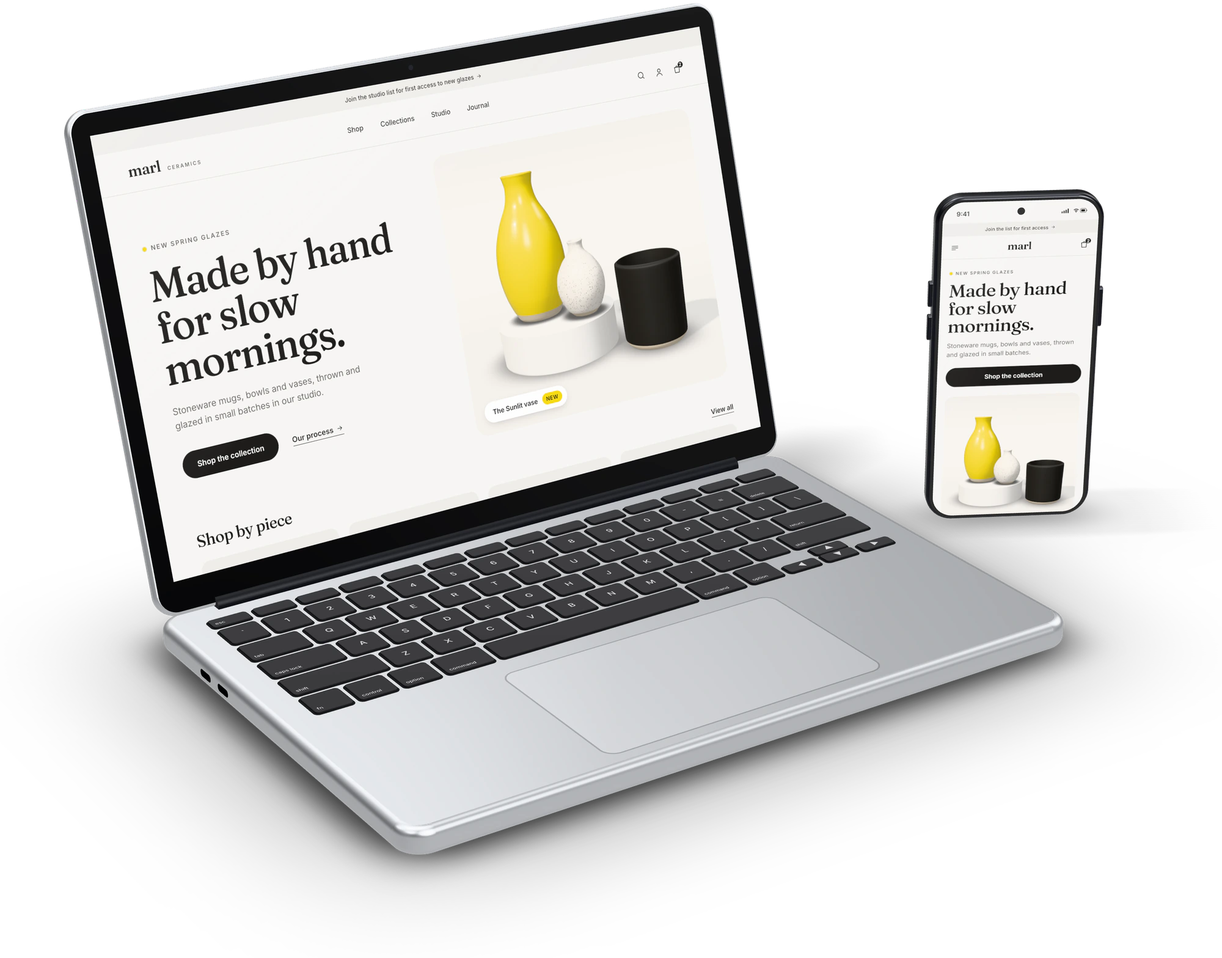
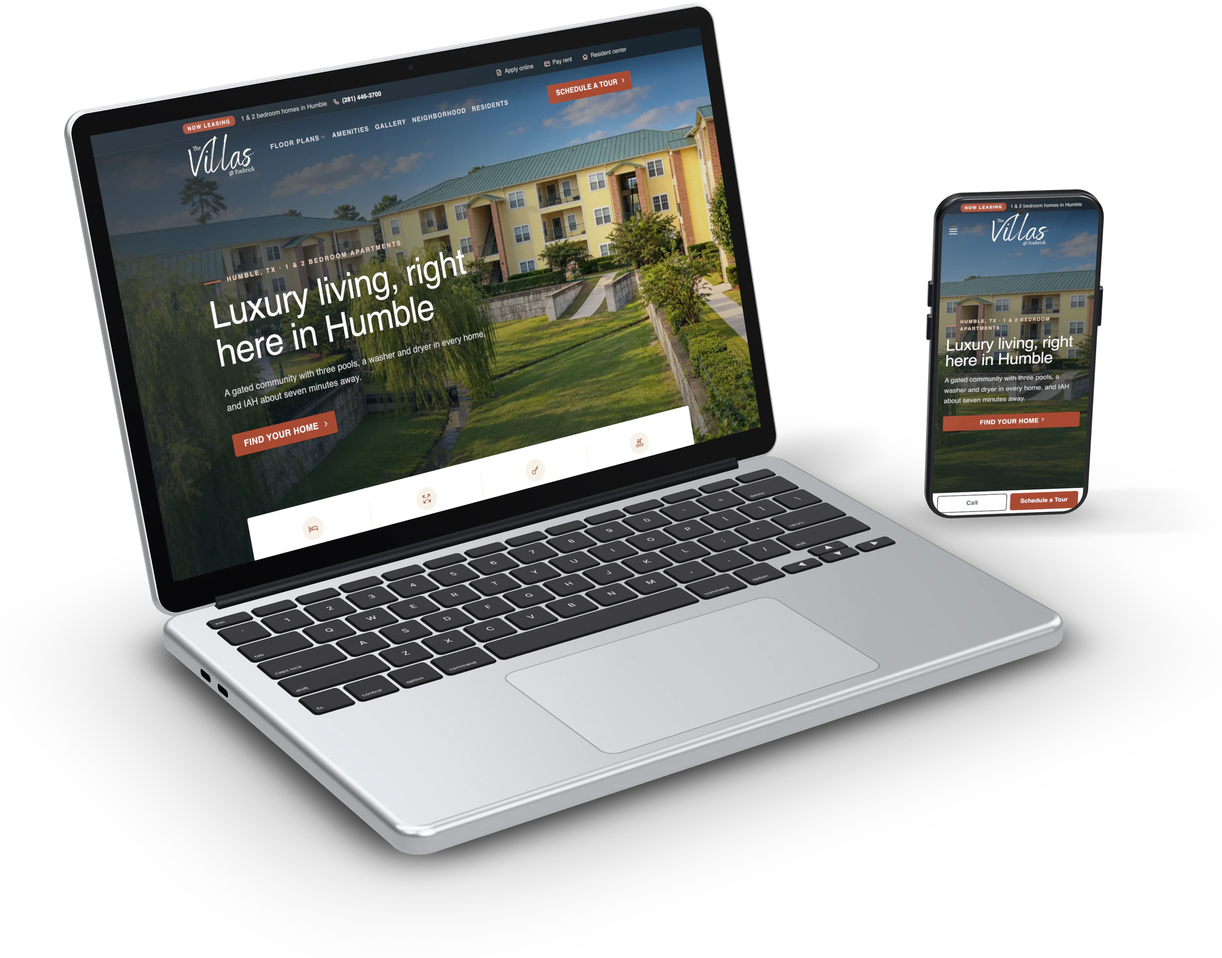
hero section

Changed region(s): [[0.062, 0.0312, 0.62, 0.625], [0.744, 0.1875, 0.899, 0.5312]]

diff --git a/src/data/site.ts b/src/data/site.ts
@@ -242,7 +242,8 @@ export const workFilters: readonly { readonly service: ServiceSlug; readonly lab
 /**
  * The home page's featured projects, in display order, numbered 01-03 there. Supplied by the owner
  * on 2026-11-18 and described from what each site shows (checked that day). The Villas @ Foxbrick
- * demo asked for a password, so its entry rests on the owner's own screenshot and project files.
+ * homepage was open without a password later that day; the card still calls it a demo and does not
+ * repeat the phone number shown there.
  */
 export const featuredProjects: readonly FeaturedProject[] = [
   {

diff --git a/design/hero-mockup/sample-site/sample-site.css b/design/hero-mockup/sample-site/sample-site.css
@@ -1,6 +1,7 @@
 /*
- * Sample website shown on the hero mockup's screens: "Marl", a fictional ceramics studio.
- * Concept artwork only, not a client project. Desktop and mobile pages share these styles.
+ * Earlier sample website for the hero mockup: "Marl", a fictional ceramics studio.
+ * Not shown on the hero anymore (see the folder README). Concept artwork only, not a client.
+ * Desktop and mobile pages share these styles.
  * Fonts are open-licensed (SIL OFL) and pinned: Fraunces for display, Inter for interface text.
  */
 @font-face {

diff --git a/design/hero-mockup/scenes/devices.html b/design/hero-mockup/scenes/devices.html
@@ -5,7 +5,7 @@
     <title>Hero mockup: laptop and phone</title>
     <!--
       The home hero's device composition: a silver laptop in three-quarter view and an upright
-      phone to its right, showing the sample site's desktop and mobile screenshots, on a
+      phone to its right, showing the stored desktop and mobile screenshots, on a
       transparent background with soft grounding shadows. Rendered by ../render.mjs.
       The devices are generic: no maker's logo, notch, or trade dress.
     -->

diff --git a/docs/architecture.md b/docs/architecture.md
@@ -20,7 +20,7 @@ The Auralink Studio website is a statically generated Astro site. Every page is 
 | Logo                 | `src/assets/aura.svg` (the owner's artwork, 2026-11-17), inlined by the navbar and its menu panel                  | Cropped to the artwork, clipping frame removed, paths optimised once with SVGO (16.4 KB to 5.6 KB; inlined twice per page). The wordmark fills with `currentColor`, so it takes the bar's text colour and looks black when opened alone; the mark's yellow is not a theme token. 48px tall so the "Studio" line stays readable. Treat a new export the same way. The earlier green-mark `aura-logo.svg` stays, unused, at the owner's request.                                                                                                                                                                                                                                                                                                                                                                                                                                                                                                                                                                                                                                               |
 | Primary button       | `src/components/ui/Button.astro`, with the `btn-lit` and `aura-lap` utilities in `src/styles/global.css`           | Lit from above, after the owner's reference (https://www.youtube.com/shorts/XldO61IcsX4): a gradient and four shadows (top light, bottom shade, contact, own-colour glow), flipped on press. The gradient shades downward, keeping the label at 4.5:1. daisyUI's `aura` makes one lap on appearance (skipped by `aura="hover"`: `aura-hover`), then fades in on hover or keyboard focus and fades out afterwards, pausing where it stopped so the next visit continues, and stays off under reduced motion (WCAG 2.2.2).                                                                                                                                                                                                                                                                                                                                                                                                                                                                                                                                                                     |
 | Home hero            | `src/components/sections/Hero.astro`; image `src/assets/hero/laptop-phone.webp`                                    | Owner's brief (2026-11-17): copy left (about 45%), devices right (55%), stacked below `lg`. At 10% of its column, the headline keeps "brings them back." on one line in Mukta. The only motion on load is the pencil underline (`PencilUnderline.astro`, `animate-pencil-draw`): drawn once after 250 ms, already finished under reduced motion. Buttons change colour at once (`transition-none`); the CTA's aura waits for hover and resumes where it stopped.                                                                                                                                                                                                                                                                                                                                                                                                                                                                                                                                                                                                                             |
-| Hero image           | Rendered from `design/hero-mockup/` (three.js in headless Chromium), served as AVIF with WebP fallback             | No approved client work exists yet, so the screens show a fictional sample shop, labelled as concept work in that folder's README. Original 3D devices, no stock or third-party art. Six widths, loaded eagerly with `fetchpriority="high"` and explicit dimensions. `render.mjs` crops to the visible pixels and refuses a frame that would cut a shadow.                                                                                                                                                                                                                                                                                                                                                                                                                                                                                                                                                                                                                                                                                                                                   |
+| Hero image           | Rendered from `design/hero-mockup/` (three.js in headless Chromium), served as AVIF with WebP fallback             | The screens show The Villas @ Foxbrick homepage, captured from the owner's WordPress demo on 2026-11-18 (`design/hero-mockup/screens/`). Same demo as the selected-work card, not confirmed client work. The devices themselves are original 3D, with no maker's logo. Six widths, loaded eagerly with `fetchpriority="high"` and explicit dimensions. `render.mjs` crops to the visible pixels and refuses a frame that would cut a shadow.                                                                                                                                                                                                                                                                                                                                                                                                                                                                                                                                                                                                                                                 |
 | Home services strip  | `src/components/sections/ServiceStrip.astro` between the hero and the introduction; `src/lib/service-strip.ts`     | After the WPRiders logo row under that site's hero: an open white band with no rules and one row with wide even gaps that moves right to left and fades out at both edges through a CSS mask. In place of logos, the `serviceCards` titles are set as a line of type in Mukta, the first word bold (700) and the rest light (300), with Lucide's `sparkle` star, filled in the primary colour, between names. The owner chose this of three treatments on 2026-11-18 (the others: titles beside icon tiles under a "What we do" label, and muted titles beside plain icons); the first version was plain bold titles between hairlines. High Scale Media supplies only the idea of a repeating services line. No client logos and no "trusted by" line. CSS transform at 30px a second (`SERVICE_STRIP_SPEED_PX_PER_SECOND`). It pauses while the pointer is over the band and has no pause button (owner, 2026-11-18), so the keyboard cannot pause it. Reduced motion and no JavaScript show every title in a static wrap with no fade. The repeated half and the stars are `aria-hidden`. |
 | Home introduction    | `src/components/sections/AboutIntro.astro`, below the services strip, the target of the hero's About us (`#about`) | After the Hub2B reference's "Space for Freelancers and Creative People" section: from `lg` the photo sits left on a `primary` frame offset down and right, with the copy beside it; below `lg` the copy comes first. It ends with a large "Learn more" button (Hub2B's "Read more"), a placeholder until `/about/` ships. No JavaScript; only the button's aura moves, under the pointer. The video is deferred (see "Open decisions").                                                                                                                                                                                                                                                                                                                                                                                                                                                                                                                                                                                                                                                      |
 | Introduction photo   | Pexels photo by Mikhail Nilov (Pexels License), `src/assets/about/`, credited in `src/assets/CREDITS.md`           | A real photograph of a business owner at work, the human counterpart to the hero's devices. It illustrates the audience only: never captioned, named, or presented as a client or team member. Full 3:2 frame at every width, so no crop can lose the subject. AVIF with WebP fallback at six widths, lazy-loaded with explicit dimensions. Every third-party asset gets an entry in the credits file.                                                                                                                                                                                                                                                                                                                                                                                                                                                                                                                                                                                                                                                                                       |

diff --git a/docs/content-strategy.md b/docs/content-strategy.md
@@ -24,7 +24,7 @@ Not yet verified (do not publish as fact): location and service area, team membe
 
 Everything beyond the list above is proposed content. Proposed content is written in draft (`draft: true` in collections, or clearly marked in page copy) and becomes publishable only after the owner confirms it. Process descriptions and educational explanations may be written from professional knowledge; claims about Auralink's own results, clients, or credentials may not.
 
-The device image in the home hero shows "Marl", a fictional ceramics shop designed as concept work (source and notes in `design/hero-mockup/`). It is not a client and must not be described as one; replace it with approved client work when that exists.
+The device image in the home hero shows the homepage of The Villas @ Foxbrick, the owner's WordPress demo, captured on 2026-11-18 (source and notes in `design/hero-mockup/`). It is the same demo as the selected-work card, not confirmed client work, and must not be described as a client, a result, or the property's own live site.
 
 The home page introduction (`src/components/sections/AboutIntro.astro`, where the hero's About us button lands) replaced the earlier "About Auralink Studio" paragraph on 2026-11-17. Its heading and body copy are the owner's (the body as the owner rewrote it that day); the eyebrow, "About Auralink Studio", is a proposal the owner has not confirmed yet. The copy makes no claim beyond the verified facts. It ends with a "Learn more" button (the owner's request, 2026-11-18), defined as `aboutCta` in `src/data/site.ts`, for the planned About page (`/about/`). Until that page ships, the button is a placeholder with no link, like "View all services" and the hero's "Book a free call". Visually hidden words, "about Auralink Studio", complete its name for screen readers and search engines, since "Learn more" alone does not say where it leads. Its photo is a licensed stock photo of a business owner at work, credited in `src/assets/CREDITS.md`. It illustrates the audience, so it must never be captioned, named, or quoted as a client or team member. The owner will supply a YouTube video for this section later; the player is separate work and nothing video-related is published until then.
 
@@ -87,7 +87,7 @@ The home page's selected work section (`src/components/sections/SelectedWork.ast
 Each description says only what the project's own site shows, or what the owner's documentation of it supports, as checked on 2026-11-18. Each card states its status in its label, so a demo or a personal project never passes for client work, and claims no client relationship, result, testimonial, integration, or booking system.
 
 1. Johnny's Exclusive Barbershop, "Custom static website", https://exclusivecutzz.netlify.app/. Inspected live. The site displays that name (its logo badge reads "Exclusive Cutz") for a barbershop in Humble, Texas. It shows services, a price list whose tabs filter it by service (tried), opening hours, the address, gallery and contact pages, a newsletter sign-up, and appointment buttons that open the shop's page on a third-party booking service. It is hand-written HTML, CSS, and JavaScript on Netlify, with no CMS. The owner's own portfolio lists it as a website from 2024. Not confirmed: whether it was paid client work, and whether the shop agreed to be featured. The card repeats none of the shop's contact details.
-2. The Villas @ Foxbrick, "WordPress demo", https://villas-foxbrick-demo.instawp.site/. The live demo could not be inspected: every request got HTTP basic authentication (401, served by InstaWP). Its entry rests on the owner's own documentation instead. That is the project card and desktop screenshot in the owner's portfolio (a WordPress website, 2026), plus the owner's source for its gallery page, built with the Flatsome theme's page builder. The screenshot shows "Now leasing" with one- and two-bedroom homes in Humble, pages for floor plans, amenities, gallery, neighborhood, and residents, and a "Schedule a tour" button. Public rental listings confirm The Villas at Foxbrick is an apartment community on Foxbrick Lane in Humble, Texas. Not confirmed: the demo's current content, and whether it was made for the property or as a concept. The card calls it a demo and describes the tour button only as a button.
+2. The Villas @ Foxbrick, "WordPress demo", https://villas-foxbrick-demo.instawp.site/. On 2026-11-18 the homepage loaded without a password (earlier the same day every request got HTTP basic authentication, 401, served by InstaWP). The homepage shows "Now leasing", one- and two-bedroom homes in Humble, a phone number, links for floor plans, amenities, gallery, neighborhood, and residents, "Schedule a tour", and the heading "Luxury living, right here in Humble". Those captures are the pages on the home hero's laptop and phone. The card still rests on the owner's portfolio (a WordPress website, 2026) and the owner's source for its gallery page, built with the Flatsome theme's page builder. Public rental listings confirm The Villas at Foxbrick is an apartment community on Foxbrick Lane in Humble, Texas. Not confirmed: whether the demo was made for the property or as a concept. The card calls it a demo and describes the tour button only as a button. The hero's alt text names the website shown and does not call it client work. The card repeats none of the phone number.
 3. one0one, "Shopify recreation", https://henrrywebsolutions.myshopify.com/. The storefront asks for a password (store name "Henrrywebsolutions"). The owner's portfolio documents it as a 2024 recreation of the storefront of one0one, an activewear brand, as it looked before the brand's latest redesign, and gives the password. With that password the storefront was checked read-only. It shows one0one's branding on Shopify's Dawn theme, with dresses, tops, belts, accessories, men's, and sale collections. Collection pages have availability and price filters and sorting, product pages offer sizes and sale prices, and there are country, currency, and English and Spanish selectors. The card calls it a personal project and says it is not affiliated with one0one. At the owner's request (2026-11-18), it also gives the store's password under its button ("Demo password: password") so visitors can open the store; that password opened the storefront the same day. Open question for the owner: featuring a recreation of a real brand's store, with its name, logo, and photography, on a commercial agency site.
 
 Each cover photo is a licensed stock photo of the project's industry (`src/assets/CREDITS.md`). It is never the business, its premises, or its products, and its alt text describes the photo, not the project.

diff --git a/design/hero-mockup/README.md b/design/hero-mockup/README.md
@@ -2,19 +2,19 @@
 
 Editable source for `src/assets/hero/laptop-phone.webp`, the device image in the home page hero (`src/components/sections/Hero.astro`): a silver laptop in three-quarter view and an upright phone beside it, on a transparent background with soft contact and cast shadows. The devices are generic, with no maker's logo or trade dress.
 
-The screens show **Marl**, a fictional ceramics studio designed for this image. It is concept work, not a client project: never present it as one. When approved client work exists, swap its screenshots in (see below) and update the image's alt text in the hero.
+The screens show the homepage of **The Villas @ Foxbrick**, the owner's WordPress demo at https://villas-foxbrick-demo.instawp.site/, captured on 2026-11-18. It is the same demo as the selected-work card: not confirmed client work, and the hero's alt text names the website shown. Do not describe it as a client, a result, or the property's own live site.
 
 ## Files
 
-| File                          | Contents                                                                                       |
-| ----------------------------- | ---------------------------------------------------------------------------------------------- |
-| `sample-site/desktop.html`    | The sample website at laptop size (1440x900)                                                   |
-| `sample-site/mobile.html`     | The same website at phone size (390x844)                                                       |
-| `sample-site/sample-site.css` | Styles shared by both pages; Fraunces and Inter, open-licensed, pinned on cdn.jsdelivr.net     |
-| `scenes/products.html`        | The sample shop's product photo: three stoneware pieces on a plinth, modelled in three.js      |
-| `scenes/devices.html`         | The laptop and phone with the screenshots as screens; `LAYOUT` at the top sets the composition |
-| `scenes/kit.js`               | Shared three.js helpers: renderer, rounded shapes, screen textures, contact shadows            |
-| `render.mjs`                  | Runs the steps below in headless Chromium and writes the asset                                 |
+| File                   | Contents                                                                                                     |
+| ---------------------- | ------------------------------------------------------------------------------------------------------------ |
+| `screens/desktop.png`  | Homepage at laptop size, 2880×1800 (1440×900 at 2×)                                                          |
+| `screens/mobile.png`   | The same homepage at phone size, 1170×2532 (390×844 at 3×)                                                   |
+| `scenes/devices.html`  | The laptop and phone with those screenshots as screens; `LAYOUT` at the top sets the composition             |
+| `scenes/kit.js`        | Shared three.js helpers: renderer, rounded shapes, screen textures, contact shadows                          |
+| `render.mjs`           | Runs the steps below in headless Chromium and writes the asset                                               |
+| `sample-site/`         | Earlier fictional ceramics shop ("Marl"). Not shown on the hero. `--only=products` renders its product photo |
+| `scenes/products.html` | That shop's product photo, modelled in three.js. Unused by the default pipeline                              |
 
 ## Re-render
 
@@ -22,16 +22,17 @@ The screens show **Marl**, a fictional ceramics studio designed for this image. 
 node design/hero-mockup/render.mjs
 ```
 
-It takes about 15 seconds and runs four steps, each writing to `reports/hero-mockup/` (gitignored): `products` (the product photo), `screens` (screenshots of the sample site at 2x and 3x), `devices` (the 3D scene at twice the asset size), and `asset` (crops to the visible pixels, downsizes to 2000px wide, and saves a transparent WebP). Run part of it with `--only=<step>` or `--from=<step>`; `--preview` renders the devices at asset size and skips the asset.
+It takes a few seconds and runs three steps, each writing to `reports/hero-mockup/` (gitignored): `screens` (copies the stored screenshots), `devices` (the 3D scene at twice the asset size), and `asset` (crops to the visible pixels, downsizes to 2000px wide, and saves a transparent WebP). Run part of it with `--only=<step>` or `--from=<step>`; `--preview` renders the devices at asset size and skips the asset. `--only=products` renders the unused sample-shop photo.
 
-Requirements: network access (three.js 0.170.0 and the fonts load from cdn.jsdelivr.net), Playwright's Chromium (installed for the browser tests), and sharp (installed with Astro). On macOS the scenes render on the GPU through Metal.
+Requirements: network access (three.js 0.170.0 and the legend font load from cdn.jsdelivr.net), Playwright's Chromium (installed for the browser tests), and sharp (installed with Astro). On macOS the scenes render on the GPU through Metal.
 
 The devices step fails if anything visible touches the edge of the frame, because a shadow cut by the frame would show as a hard line on the hero background. Widen `LAYOUT.margins` in `scenes/devices.html` if that happens.
 
 ## Changing it
 
-- Screen content: edit the sample-site pages and run the pipeline. The pages load the product photo from `/out/`, a path that only `render.mjs` serves.
+- Screen content: replace `screens/desktop.png` and `screens/mobile.png` at the sizes above, then run the pipeline. The screens step refuses a file of any other size, because the device displays map each screenshot across the whole screen.
 - Composition: change `LAYOUT` in `scenes/devices.html` (camera angle and distance, phone position and turn). The page also merges JSON from a `?layout=` query parameter into `LAYOUT`, for scripted side-by-side comparisons.
-- Real client work: save the desktop screenshot as `reports/hero-mockup/screen-desktop.png` (2880x1800, 16:10) and the mobile one as `reports/hero-mockup/screen-mobile.png` (1170x2532), then run `node design/hero-mockup/render.mjs --from=devices`. Only publish client work the client has approved.
+
+The captures above are the homepage as it loaded that day, viewport only, with motion reduced. Refresh them from the demo when the owner asks, and only publish work the owner has agreed to show. The demo was open without a password on the day of the capture; it had answered 401 before that.
 
 The hero serves the asset through `astro:assets` as AVIF with a WebP fallback at six widths, so keep the source WebP at full quality; the build does the compression.

diff --git a/src/assets/CREDITS.md b/src/assets/CREDITS.md
@@ -1,6 +1,6 @@
 # Asset credits
 
-Every file in `src/assets/` that Auralink Studio did not create has an entry here, added in the same change as the file: where it came from, who made it, the licence it is used under, and what was changed. Original work is not listed: the owner's logo files and the hero's device image, which is rendered from `design/hero-mockup/`. Remove an entry when its file is deleted.
+Every file in `src/assets/` that Auralink Studio did not create has an entry here, added in the same change as the file: where it came from, who made it, the licence it is used under, and what was changed. Original work is not listed: the owner's logo files, and the laptop and phone in the hero, which are rendered from `design/hero-mockup/`. The pages on those screens are a screenshot of the owner's own demo and are noted under the hero entry below. Remove an entry when its file is deleted.
 
 Stock photos only illustrate: the site's audience, or the industry of a featured project. Never caption one as a client, a team member, or a testimonial, never name the people in it, and never present one as a project's own premises, products, or photography.
 
@@ -11,6 +11,13 @@ Not files in this folder. Astro's font support downloads them at build time and 
 - Catamaran, used for text (`--font-main`), weights 400 and 700. Copyright 2014 The Catamaran Authors (pria.ravichandran@gmail.com). Designed by Pria Ravichandran.
 - Mukta, used for headings (`--font-headers` and `--font-subheaders`), weights 300 and 700. Copyright (c) 2014, Girish Dalvi, Ek Type.
 - Licence for both: SIL Open Font License 1.1, https://openfontlicense.org/open-font-license-official-text/ (read from the upstream `OFL.txt` on 2026-11-18). The fonts may be used, studied, modified, and redistributed, including embedded in a website, and may not be sold by themselves. A reserved font name stays with the copyright holder.
+
+## `hero/laptop-phone.webp`
+
+- Used in: the home page hero, `src/components/sections/Hero.astro`.
+- The laptop and phone are original 3D, rendered from `design/hero-mockup/` (see its README). No maker's logo.
+- The pages on the screens are a screenshot of the owner's WordPress demo for The Villas @ Foxbrick, https://villas-foxbrick-demo.instawp.site/, captured 2026-11-18. Desktop is the homepage at 1440×900, saved at 2× (2880×1800). Mobile is the same homepage at 390×844, saved at 3× (1170×2532).
+- The photography inside that screenshot belongs to the demo. It was not downloaded as a stock photo, and no separate licence for those photographs is on record here. The image shows the website the owner asked to feature. Do not describe it as a client result, or as the property's own live site (that site is a different address).
 
 ## `about/business-owner-laptop.webp`
 
